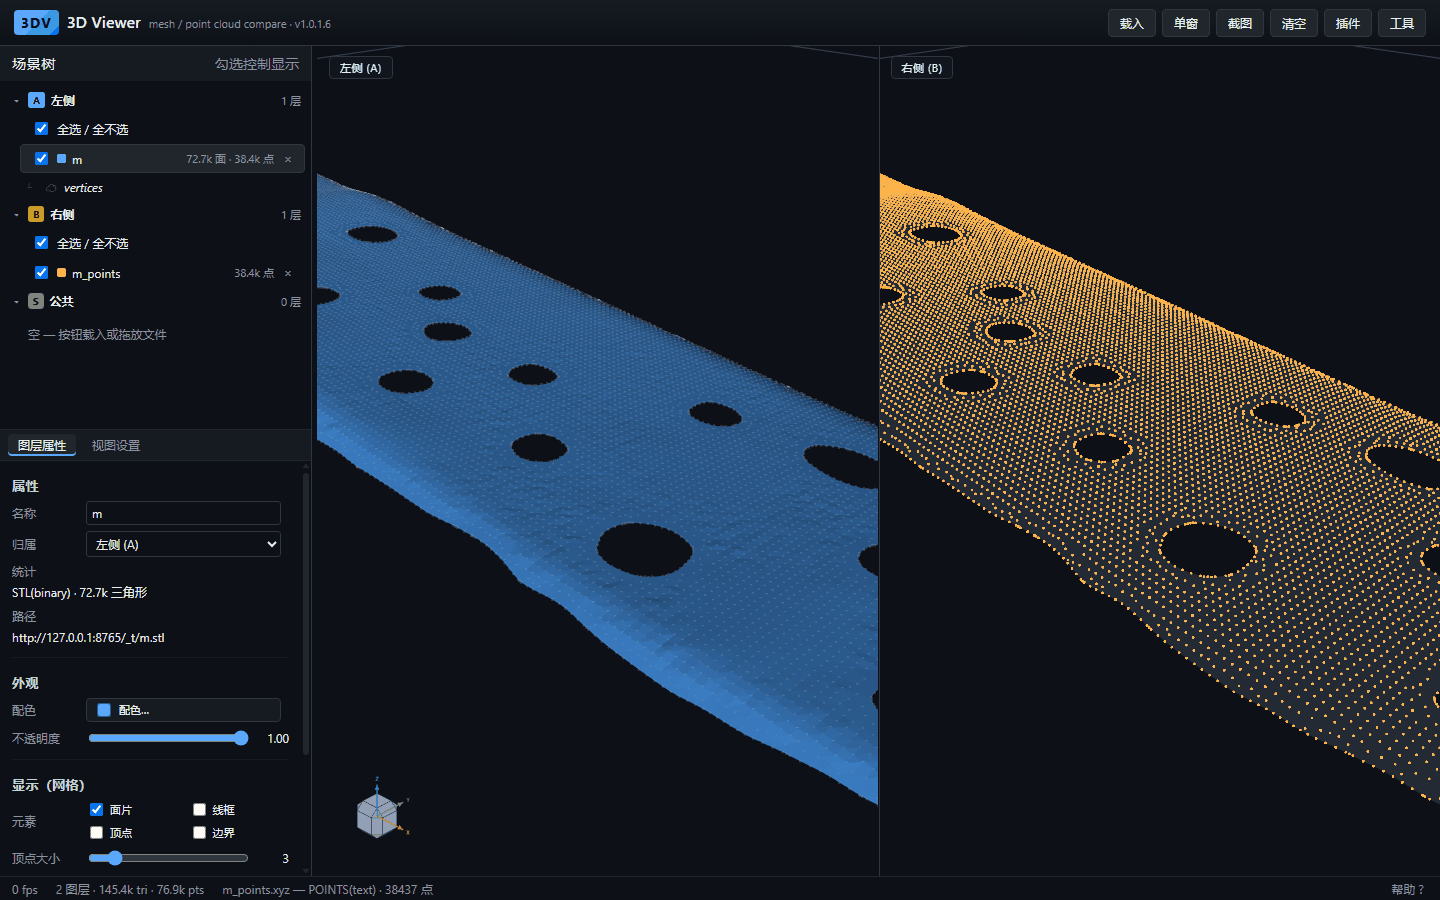
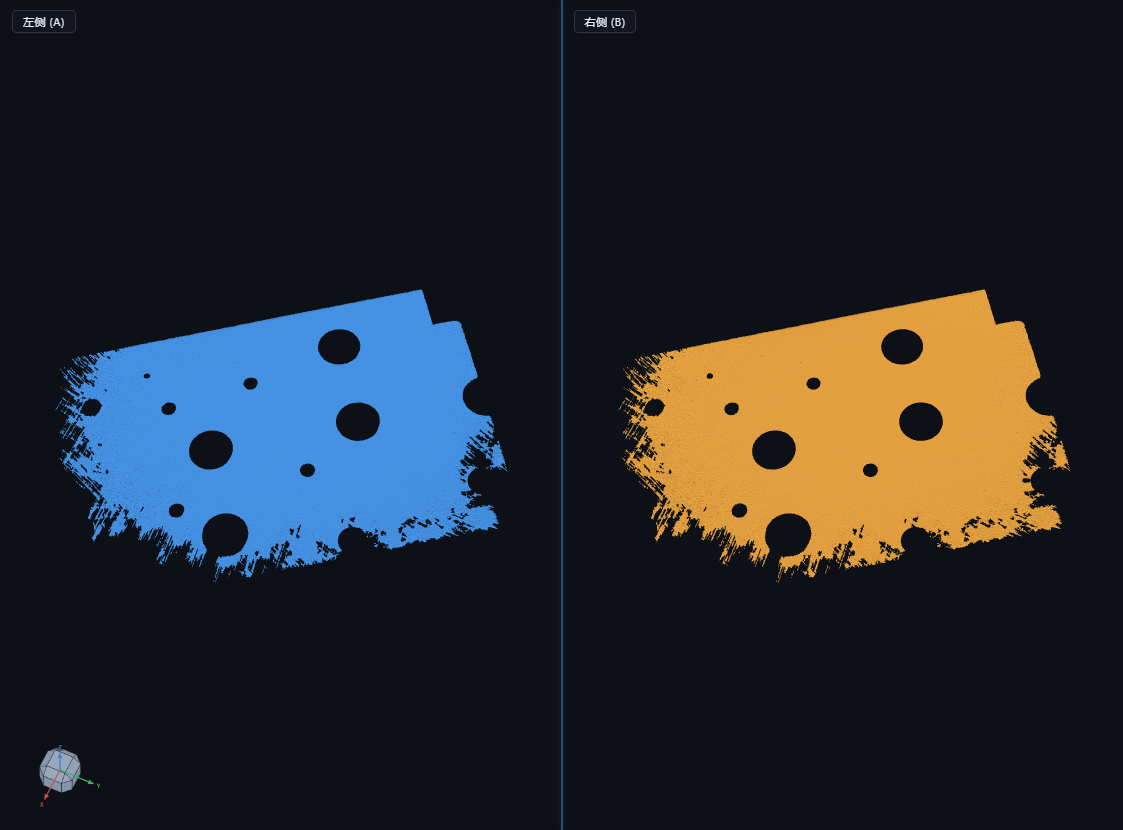
1.0.2.7 1. 修复带标量场的点云属性面板不显示的问题。 2. 属性面板路径解码显示，中文文件名不再出现 %E6% 串。 3. 地面网格默认关闭。 4. 更新README.md。

diff --git a/index.html b/index.html
@@ -7,7 +7,7 @@
 <meta http-equiv="Pragma" content="no-cache" />
 <meta http-equiv="Expires" content="0" />
 <title>3D Viewer</title>
-<link rel="stylesheet" href="css/style.css?v=1.0.2.6" />
+<link rel="stylesheet" href="css/style.css?v=1.0.2.7" />
 </head>
 <body>
 <div id="app">
@@ -296,7 +296,7 @@
                             <button id="btn-theme" title="切换深色 / 浅色主题">浅色</button>
                         </div>
                         <div class="row chk2">
-                            <label><span>地面网格</span><input type="checkbox" id="opt-grid" checked /></label>
+                            <label><span>地面网格</span><input type="checkbox" id="opt-grid" /></label>
                             <label><span>坐标轴</span><input type="checkbox" id="opt-axes" checked /></label>
                         </div>
                         <div class="row">
@@ -612,19 +612,19 @@
 </div>
 
 <!-- ?v= 变更时强制刷新缓存 -->
-    <script src="js/core.js?v=1.0.2.6"></script>
-    <script src="js/kdtree.js?v=1.0.2.6"></script>
-    <script src="js/icp.js?v=1.0.2.6"></script>
-    <script src="js/super4pcs.js?v=1.0.2.6"></script>
-    <script src="js/io.js?v=1.0.2.6"></script>
-    <script src="js/algo.js?v=1.0.2.6"></script>
-    <script src="js/render.js?v=1.0.2.6"></script>
+    <script src="js/core.js?v=1.0.2.7"></script>
+    <script src="js/kdtree.js?v=1.0.2.7"></script>
+    <script src="js/icp.js?v=1.0.2.7"></script>
+    <script src="js/super4pcs.js?v=1.0.2.7"></script>
+    <script src="js/io.js?v=1.0.2.7"></script>
+    <script src="js/algo.js?v=1.0.2.7"></script>
+    <script src="js/render.js?v=1.0.2.7"></script>
     <!-- 插件：注释掉哪一行就关闭哪个插件（主程序不受影响） -->
-    <script src="js/plugins/registry.js?v=1.0.2.6"></script>
-    <script src="js/plugins/optimize.js?v=1.0.2.6"></script>
-    <script src="js/ui-util.js?v=1.0.2.6"></script>
-    <script src="js/ui.js?v=1.0.2.6"></script>
-    <script src="js/app.js?v=1.0.2.6"></script>
+    <script src="js/plugins/registry.js?v=1.0.2.7"></script>
+    <script src="js/plugins/optimize.js?v=1.0.2.7"></script>
+    <script src="js/ui-util.js?v=1.0.2.7"></script>
+    <script src="js/ui.js?v=1.0.2.7"></script>
+    <script src="js/app.js?v=1.0.2.7"></script>
 <!-- ===== 孔位优化 BEGIN（注释掉即关闭） ===== -->
 <!-- ===== 三维编辑 BEGIN ===== -->
 <!-- ===== 三维编辑 END ===== -->

diff --git a/js/ui.js b/js/ui.js
@@ -888,6 +888,8 @@
 
         var pathText = layer.absPath || layer.sourceUrl ||
             '（未解析：浏览器不暴露本地路径；放入 data 目录或用 HOLEOPT_SEARCH 指定搜索根）';
+        /* URL 形式加载时路径里是 %E6%A7%BD... 这样的编码串，中文文件名会显示成乱码 */
+        try { pathText = decodeURI(pathText); } catch (e) { /* 保持原样 */ }
         $('p-path').textContent = pathText;
         $('p-path').title = pathText;
     }
@@ -2960,14 +2962,6 @@
             name: 'BWR',
             css: 'linear-gradient(90deg, rgb(36,92,224) 0%, rgb(245,245,245) 50%, rgb(219,51,46) 100%)'
         }
-    ];
-
-    // 与着色器 ramp 一致的色标采样点（用于直方图柱色）
-    var RAMP_STOPS = [
-        [[38, 77, 242], [26, 217, 230], [64, 230, 89], [255, 217, 38], [250, 56, 46]],
-        [[41, 87, 230], [41, 199, 112], [230, 56, 46]],
-        [[20, 20, 20], [240, 240, 240]],
-        [[36, 92, 224], [245, 245, 245], [219, 51, 46]]
     ];
 
     var HIST_BINS = 48;

diff --git a/js/ui-util.js b/js/ui-util.js
@@ -73,6 +73,17 @@
         return String(s).toLowerCase().replace(/[^a-z0-9]/g, '');
     }
 
+    /* 与着色器 ramp 一致的色标采样点。
+     * 原本在 ui.js 里，rampColorAt 搬过来时必须一起搬 —— 否则每次调用
+     * 都会 ReferenceError，调用链（drawHist → renderProps）随之中断，
+     * 表现是「选中带标量场的点云后属性面板整个空白」。 */
+    var RAMP_STOPS = [
+        [[38, 77, 242], [26, 217, 230], [64, 230, 89], [255, 217, 38], [250, 56, 46]],
+        [[41, 87, 230], [41, 199, 112], [230, 56, 46]],
+        [[20, 20, 20], [240, 240, 240]],
+        [[36, 92, 224], [245, 245, 245], [219, 51, 46]]
+    ];
+
     function rampColorAt(rampIdx, t)
     {
         var stops = RAMP_STOPS[rampIdx] || RAMP_STOPS[0];

diff --git a/js/app.js b/js/app.js
@@ -47,8 +47,13 @@
         this.pickPoints = [];
 
         this.settings = {
-            bg: [0.078, 0.094, 0.129],
-            grid: true,
+            /* ?theme=light 要在这里就生效：setTheme 是在 init() 之后调的，
+             * 那时首帧已经按深色画过。分享链接 / 截图希望开屏即是目标主题，
+             * 所以构造期先按 URL 定下背景色（setTheme 随后再覆盖一次，无副作用）。 */
+            bg: (global.location && (global.location.search || '').indexOf('theme=light') >= 0)
+                ? [0.933, 0.945, 0.961]
+                : [0.078, 0.094, 0.129],
+            grid: false,          /* 地面网格默认关闭 */
             axes: true,
             ghost: true,
             ghostMode: 0,

diff --git a/README.md b/README.md
@@ -2,7 +2,7 @@
 
 > 零依赖的 WebGL2 三维查看器，用于网格与点云的双窗并排对比。无需构建，开箱即用。
 
-![双窗并排对比](docs/images/dual-window.png)
+![双窗并排对比：左侧优化前、右侧优化后](docs/images/dual-window.png)
 
 纯原生 JavaScript + WebGL2 实现，没有框架、没有打包步骤、没有 npm 依赖。双击 `serve.bat` 即可在浏览器中打开。
 
@@ -12,24 +12,30 @@
 
 这是工具的出发点——**左窗放一份、右窗放一份，同屏对照**。
 
-上图左窗是网格（7.3 万面，蓝），右窗是同一工件的点云（3.8 万点，橙）。两侧相机同步，孔洞位置可直接横向对齐；放大到孔口级，两者的表示差异一目了然——**网格是连续的面，点云是离散的点阵**，右边孔壁边缘由点排成锯齿状。
+上图左窗是优化前的网格（531 万三角形，蓝），右窗是同一工件优化后的结果（532 万三角形，橙）。两版几何几乎一致，差别集中在槽位——右侧把误识别的槽修正了。整件看不出差别，放大到槽口才分得清；两侧相机同步，转任意角度都保持同一视角。
 
 能对比的组合不限于网格与点云：
 
 | 左窗 | 右窗 | 典型用途 |
 |---|---|---|
+| 网格 | 网格 | 优化前后两版结果（上图） |
 | 网格 | 点云 | 扫描结果 vs CAD 模型，判断偏差 |
-| 网格 | 网格 | 优化前后两版结果 |
 | 点云 | 点云 | 两次扫描的形变 |
 | 任意 | 任意 | 两个工件的并列查看 |
 
 两侧视口可以**独立相机**（各转各的），也可以**同步相机**（严格同角度），还可以把一侧作为半透明叠加层投到另一侧。
 
-### 另一种对比方式：同屏叠加
+### 两种数据对不上时：数据对齐
 
-![网格与点云同屏叠加](docs/images/overlay-mesh-points.png)
+![数据对齐面板：以右侧优化结果为对齐目标](docs/images/data-align.png)
 
-单窗口内把两份数据叠在一起，适合验收“点云是否贴合模型表面”——蓝色网格的孔壁、橙色点云的分布，一屏内同时可见。
+扫描件与 CAD 模型往往不在同一姿态。侧栏「数据对齐」提供三种手段：
+
+- **N-N**：在两层上各点若干对应点，实时显示 RMS 与逐点残差，凑够 3 对即可求刚体变换
+- **ICP**：局部精配准；姿态差大时先勾选 `4PCS` 做全局粗配准
+- **矩阵**：直接编辑 4×4 矩阵并应用，也可取逆矩阵回退
+
+配准结果写入目标图层的顶点数据，可以接着做裁剪、测量或导出。
 
 **用 URL 直接复现这两种布局**：
 
@@ -60,12 +66,12 @@ index.html?single=1&url=model.stl&slot=A&url2=model_points.xyz&slot2=B
 | **多格式** | STL（binary / ASCII）、OBJ、PLY、点云文本（xyz / csv / txt） |
 | **三维裁剪** | 矩形 / 多边形框选，空格连续追加选区，一次拆成「选中」与「剩余」两个图层 |
 | **孔径测量** | 点击拾取点位，实时计算两点距离 |
-| **数据对齐** | N-N 手动选点配准（三维序号标记 + 实时 RMS）、ICP 精配准（可选自动粗配准）、4×4 矩阵直接编辑与应用 |
+| **数据对齐** | N-N 手动选点配准（三维序号标记 + 实时 RMS）、ICP 精配准（可选 4PCS 全局粗配准）、4×4 矩阵直接编辑与取逆 |
 | **孔位优化** | 可选插件，调用本地 `HoleOptimize_cli.exe` 计算最优孔位，结果作为子图层回填 |
 | **标量场着色** | 点云按字段着色，带色标条与分布直方图 |
 | **深浅主题** | 深色 / 浅色一键切换，画布、网格线、浮层同步 |
 
-![浅色主题](docs/images/overview-light.png)
+![浅色主题下的双窗界面](docs/images/overview-light.png)
 
 ---
 
@@ -137,10 +143,11 @@ python server/serve.py
 **场景树**：支持父子层级。网格加载后显示 `72.7k 面 · 38.4k 点`；选中网格后其下方出现 `vertices` 子项，点击查看顶点数与包围盒，右键可把顶点拷成点云图层。
 
 **侧栏**：可左右拖拽调宽（220~620px）；场景树与下方属性区之间可上下拖拽，各自独立滚动。
+下方三个标签页（图层属性 / 视图设置 / 数据对齐）共用一套排版：分组标题、行高、标签左对齐、勾选框右对齐。
 
-单窗模式下的完整界面：
+双窗模式下的完整界面：
 
-![单窗界面：场景树、属性面板与视口](docs/images/overview-dark.png)
+![双窗界面：场景树、属性面板与两个视口](docs/images/overview-dark.png)
 
 ---
 
@@ -238,6 +245,7 @@ curl http://127.0.0.1:8765/health
 │   ├── icp.js            ICP 精配准、顶点法向计算
 │   ├── super4pcs.js      Super4PCS 全局粗配准（官方实现的逐函数翻译）
 │   ├── render.js         WebGL2 渲染、分块、视角器
+│   ├── ui-util.js        纯工具函数（格式化 / 矩阵 / 几何），零 DOM 依赖
 │   ├── ui.js             场景树、属性面板、数据对齐面板、拖拽
 │   ├── app.js            应用编排、图层与相机
 │   └── plugins/          插件（孔位优化）

diff --git a/CHANGELOG.md b/CHANGELOG.md
@@ -2,7 +2,7 @@
 
 | 项 | 值 |
 | --- | --- |
-| 当前版本 | `1.0.2.6` |
+| 当前版本 | `1.0.2.7` |
 | 记录范围 | 2026-10-21（项目起点）→ 2026-11-11 |
 | 版本号规则 | `v` + `YYYYMMDD` + 当日序号字母（`a`…`z`），每次可感知改动递增 |
 | 数据来源 | 文件创建/修改时间戳（实测）+ `index.html` 版本号 + 会话改动记录 |
@@ -2385,22 +2385,55 @@ seg/rem 中不在原始顶点集合里的顶点：0 个
   继续拆分需要把跨文件函数调用改为 `MV.ui.xxx()` 命名空间调用，
   改动点达数百处，而 `check.ps1` 只覆盖 7 个场景，风险高于收益。
 
+### 1.0.2.7（属性面板修复与文档截图）
+
+**修复**
+
+- 带标量场的点云选中后属性面板整个空白。`rampColorAt` 在 `1.0.2.6` 外移到
+  `ui-util.js` 时，它依赖的常量 `RAMP_STOPS` 留在了 `ui.js`，于是每次调用都抛
+  `ReferenceError`。调用链 `drawHist → renderProps` 在这里中断：属性行其实已经
+  打好了 `.show`，但分组还停在「无选中」的 `.empty` 态，整块面板就是不可见的。
+  只有带标量场的点云会走到 `drawHist`，普通点云与网格都不受影响，因此前一轮
+  自查没有暴露。现已把常量一并搬到 `ui-util.js`，同时恢复点云的标量场着色。
+- 属性面板「路径」在 URL 加载时显示成 `%E6%A7%BD%E8%AF%AF...`，中文文件名认不出。
+  改为 `decodeURI` 后再显示。
+
+**变更**
+
+- 地面网格默认关闭（`settings.grid` 与视图设置里的勾选框同步为一组）。
+  坐标轴仍默认开启。
+
+**文档**
+
+- 截图改用 `HoleOptimize/data/槽错误识别数据/` 的真实数据：
+  左 A 槽优化前（5,311,977 三角形）、右 B 槽优化后（5,316,532 三角形）。
+  两版只差 4555 个三角形，整件几乎看不出差别，差异集中在被修正的槽位。
+- 四张图统一为双窗。此前 `overview-dark.png` 是单窗，与正文「双窗模式下的完整界面」
+  不符；单窗还会把两份数据并入公共槽位、渲染成单色，与「左窗…右窗…」的描述对不上。
+  现在首图只截两个视口，其余三张是完整界面，图注逐条点明「左侧优化前 / 右侧优化后」。
+- 截图侧顺带解决两个坑：大文件用 `memauto=sample&mempct=20` 自动应答内存预算，
+  headless 下不会卡在确认框；截图前关掉 ghost 叠层与线框，否则模型表面会糊上
+  大片斑点与细线。
+- headless 截图对浅色画布会拿到旧帧，需加
+  `--run-all-compositor-stages-before-draw` 与 `--disable-new-content-rendering-timeout`
+  才能拍到最后合成的画面。
+
 ---
 
 ## 附录 A：当前文件规模（2026-11-11）
 
 | 文件 | 行数 | 职责 |
 | --- | --- | --- |
-| `js/ui.js` | 4949 | 场景树、属性面板、数据对齐面板、菜单 |
+| `js/ui.js` | 4943 | 场景树、属性面板、数据对齐面板、菜单 |
 | `css/style.css` | 2843 | 深浅两套主题变量与全部部件样式 |
 | `js/render.js` | 2755 | WebGL2 渲染、分块、视角器 |
-| `js/app.js` | 2115 | 应用编排、图层与相机、截图合成 |
+| `js/app.js` | 2120 | 应用编排、图层与相机、截图合成 |
 | `js/algo.js` | 1867 | 三角求交、拾取、裁剪、空间索引 |
 | `js/io.js` | 1538 | STL / OBJ / PLY / 点云解析 |
 | `js/super4pcs.js` | 1489 | Super4PCS 全局粗配准 |
 | `index.html` | 644 | 单页入口 |
 | `js/icp.js` | 639 | ICP 精配准、顶点法向 |
-| `js/ui-util.js` | 530 | 纯工具函数（格式化 / 矩阵 / 几何），零 DOM 依赖 |
+| `js/ui-util.js` | 541 | 纯工具函数（格式化 / 矩阵 / 几何），零 DOM 依赖 |
 | `js/core.js` | 398 | 数学：向量、矩阵、四元数、包围盒 |
 | `js/kdtree.js` | 260 | 点云 KD 树 |
 | `check.ps1` | 237 | 冒烟测试（7 个场景） |
